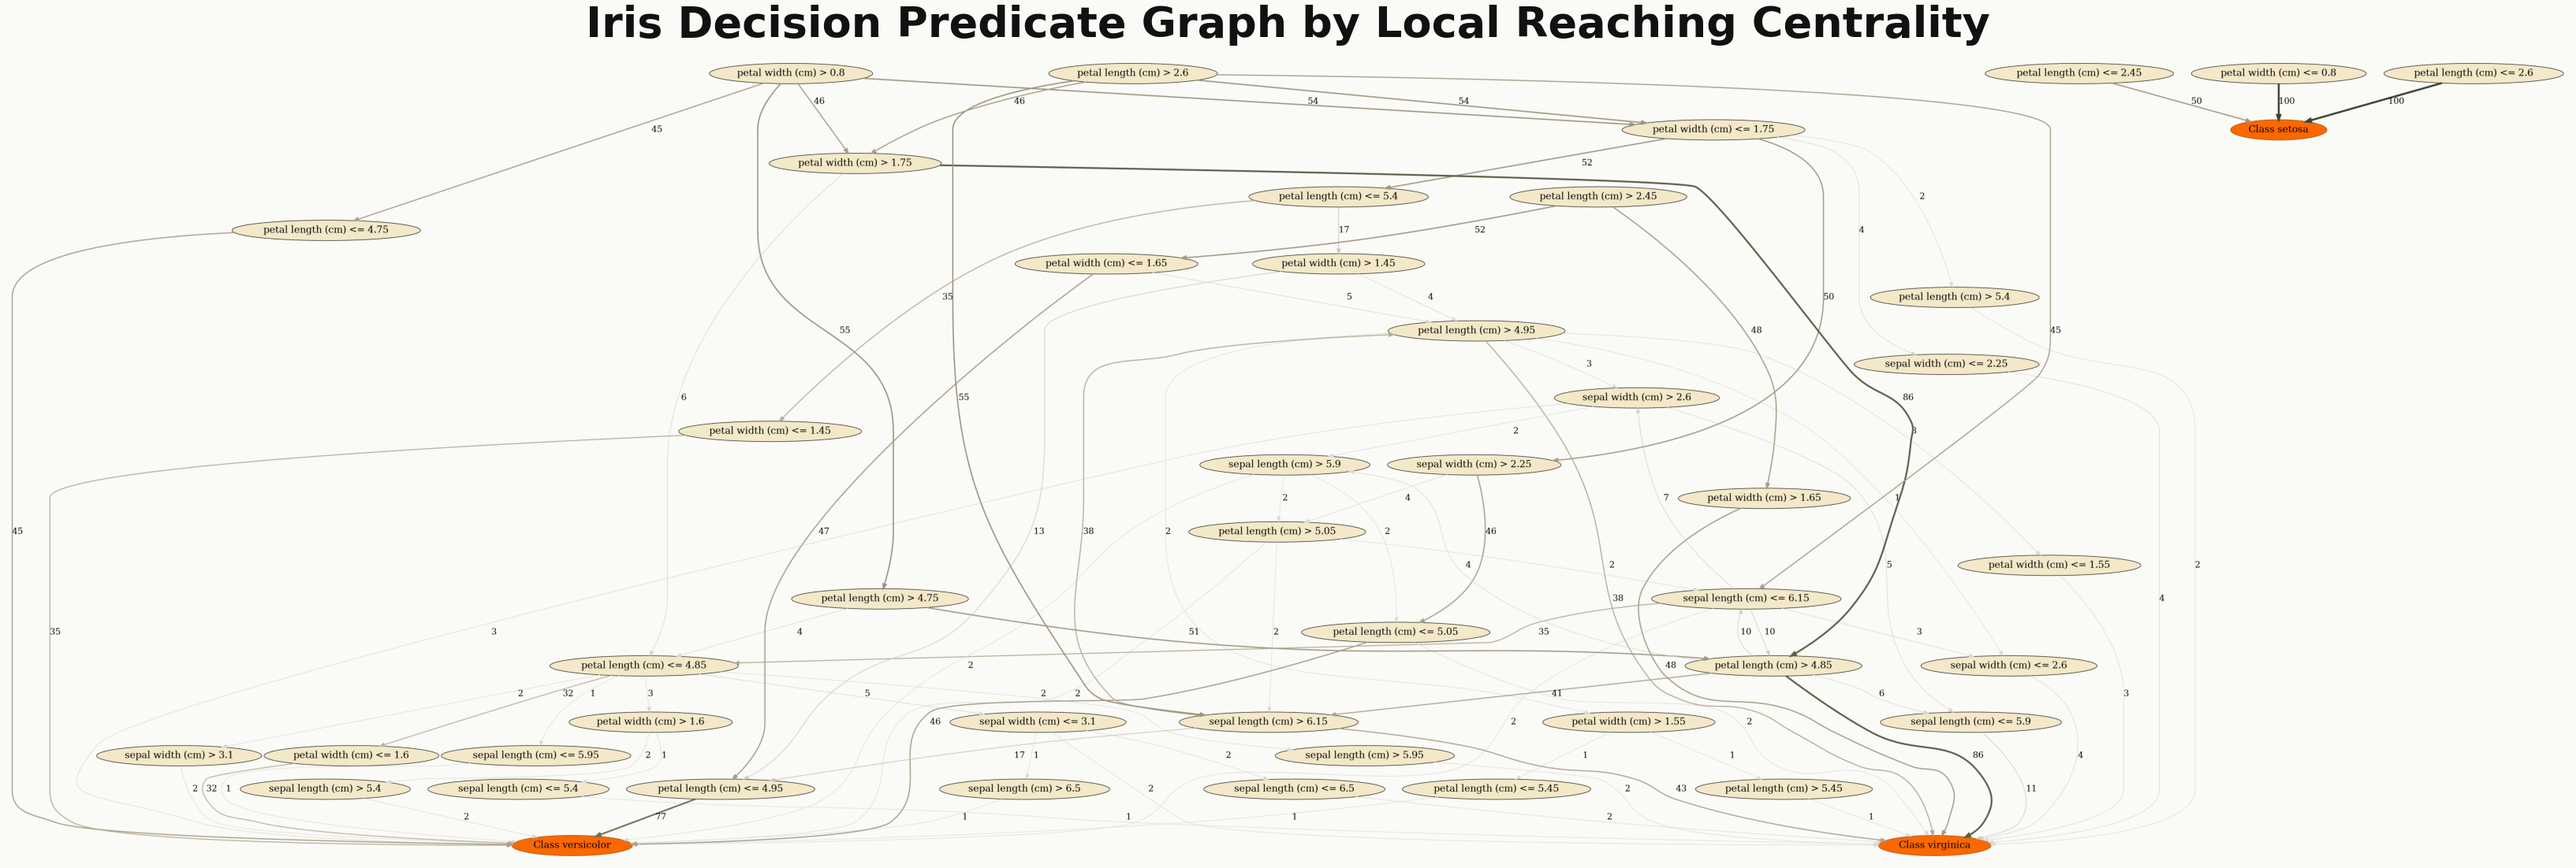
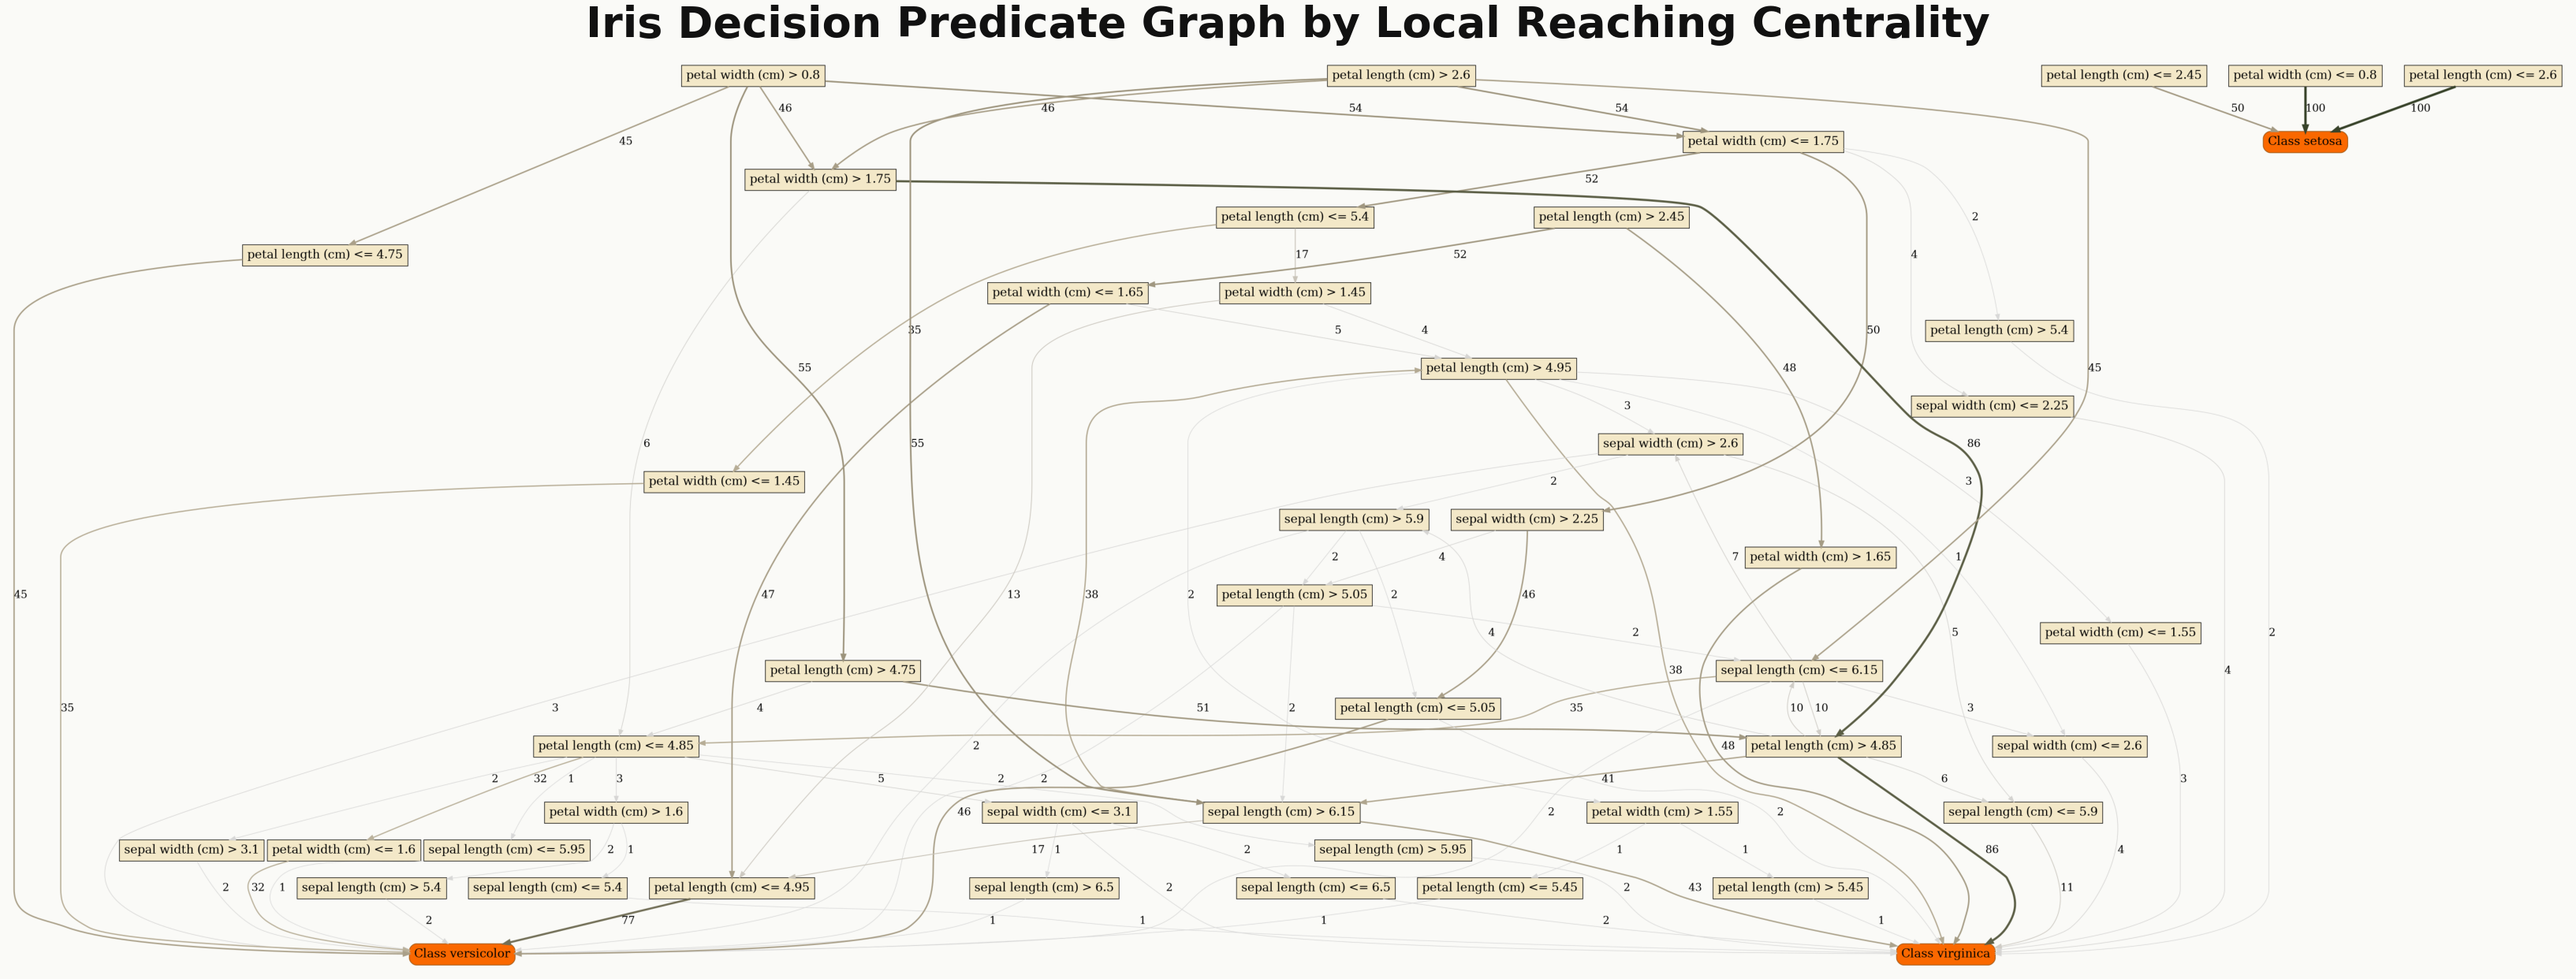
Update model parameters and enhance visualization settings for clarity

diff --git a/examples/generate_doc_images.py b/examples/generate_doc_images.py
@@ -29,7 +29,7 @@ def generate_quickstart_images():
     X, y = load_iris(return_X_y=True, as_frame=True)
     target_names = ["setosa", "versicolor", "virginica"]
 
-    model = RandomForestClassifier(n_estimators=50, random_state=42)
+    model = RandomForestClassifier(n_estimators=5, random_state=42)
     model.fit(X, y)
 
     explainer = DPGExplainer(
@@ -55,6 +55,11 @@ def generate_quickstart_images():
         explanation=explanation,
         save_dir=str(QUICKSTART_DIR),
         class_flag=False,
+        layout_template="vertical",
+        label_mode="wrapped",
+        readability="presentation",
+        fig_size=(14, 14),
+        title="Iris Decision Predicate Graph by Local Reaching Centrality",
         show=False,
     )
 

diff --git a/examples/quickstart.py b/examples/quickstart.py
@@ -83,7 +83,7 @@ def main():
     # Tutorial note: adjust these values to point at your dataset and control the run.
     config = {
         "dataset_name": "custom.csv",
-        "num_trees": 10,
+        "num_trees": 5,
         "run_tag": "CustomDPG",
         "random_state": 27,
         "config_path": os.path.join(PROJECT_ROOT, "config.yaml"),

diff --git a/examples/quickstart_iris.py b/examples/quickstart_iris.py
@@ -101,7 +101,7 @@ def main():
     # Tutorial note: adjust these values to point at your dataset and control the run.
     config = {
         "dataset_name": "iris",
-        "num_trees": 10,
+        "num_trees": 5,
         "run_tag": "CustomDPG",
         "random_state": 27,
         "config_path": os.path.join(PROJECT_ROOT, "config.yaml"),

diff --git a/docs/quickstart.md b/docs/quickstart.md
@@ -20,7 +20,7 @@ from dpg import DPGExplainer
 
 # 1. Train any tree-based ensemble
 X, y = load_iris(return_X_y=True, as_frame=True)
-model = RandomForestClassifier(n_estimators=50, random_state=42).fit(X, y)
+model = RandomForestClassifier(n_estimators=5, random_state=42).fit(X, y)
 
 # 2. Create the explainer
 explainer = DPGExplainer(
@@ -94,6 +94,11 @@ plot_dpg(
     attribute="Local reaching centrality",  # color by LRC
     theme="dpg",
     palette="olive",
+    layout_template="vertical",
+    label_mode="wrapped",
+    readability="presentation",
+    fig_size=(14, 14),
+    title="Iris Decision Predicate Graph by Local Reaching Centrality",
 )
 
 # Compare DPG importance vs Random Forest importance

diff --git a/docs/index.md b/docs/index.md
@@ -47,7 +47,7 @@ from sklearn.datasets import load_iris
 from dpg import DPGExplainer
 
 X, y = load_iris(return_X_y=True, as_frame=True)
-model = RandomForestClassifier(n_estimators=50, random_state=42).fit(X, y)
+model = RandomForestClassifier(n_estimators=5, random_state=42).fit(X, y)
 
 explainer = DPGExplainer(
     model,
